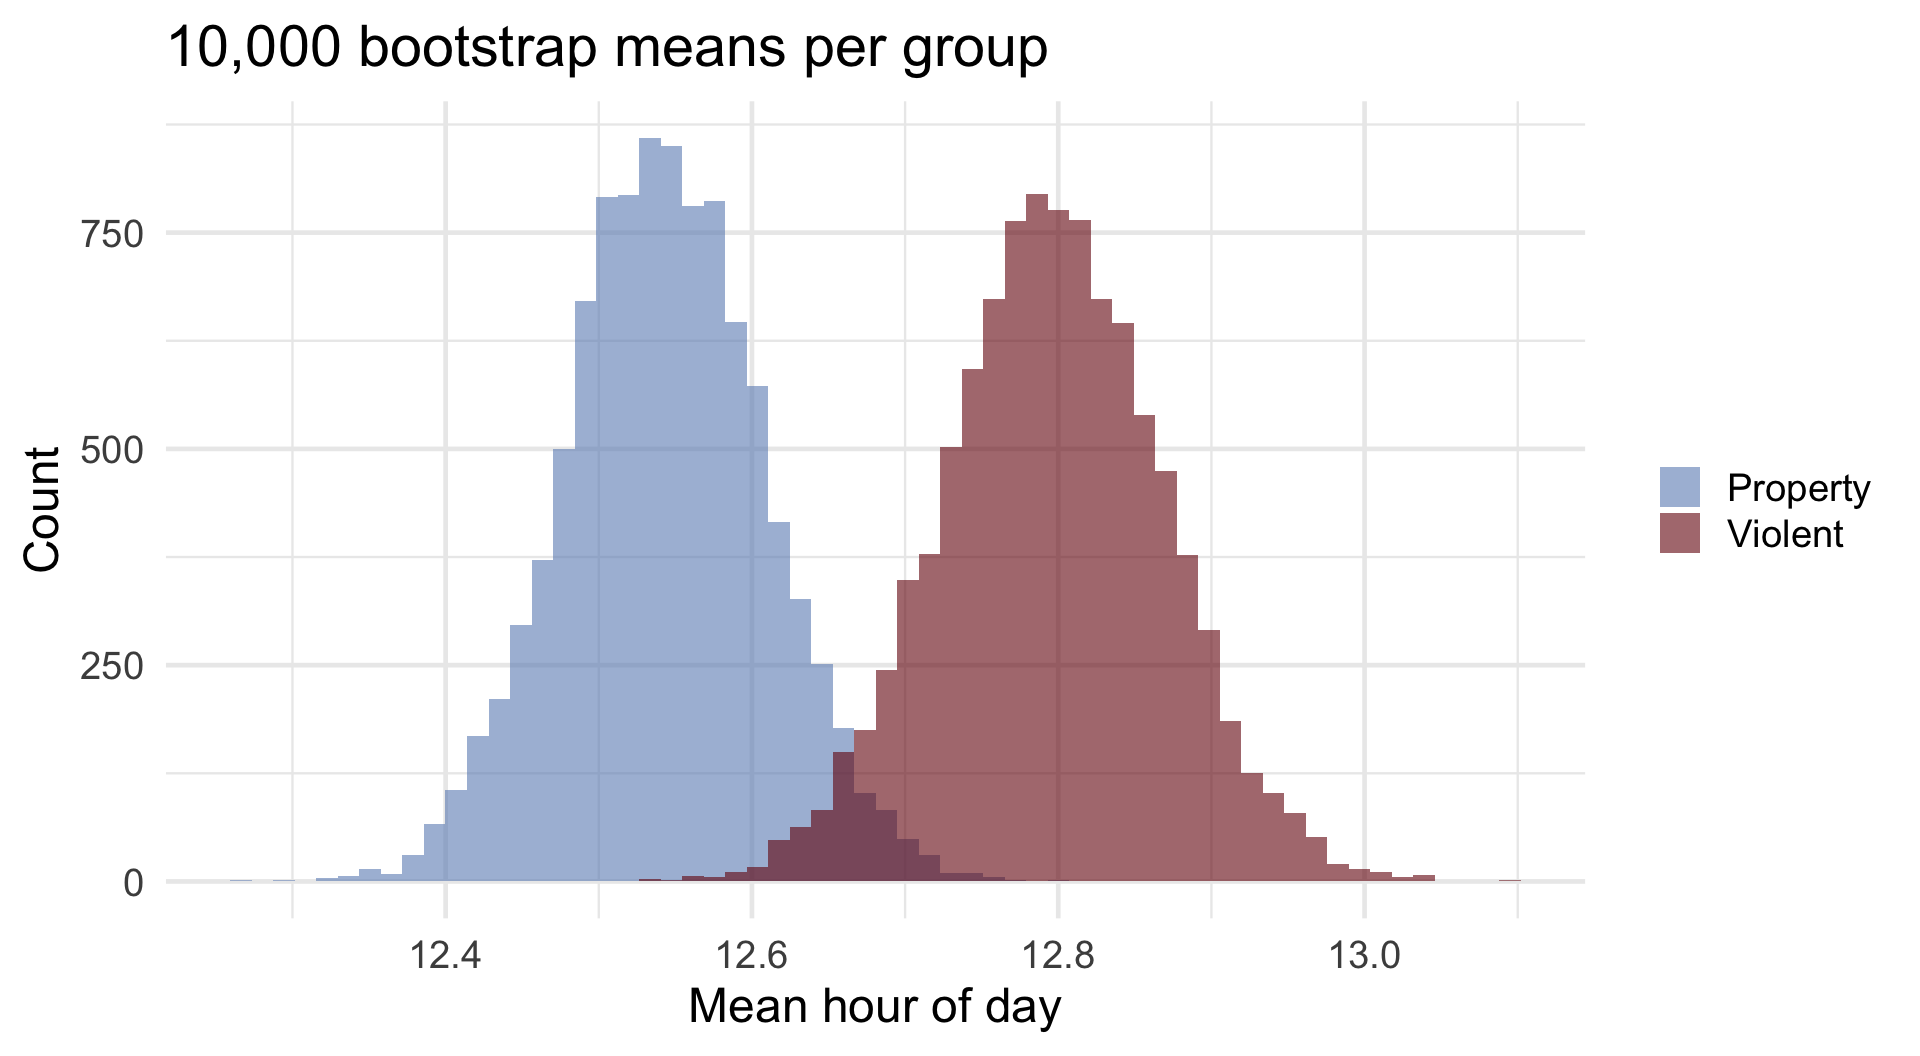
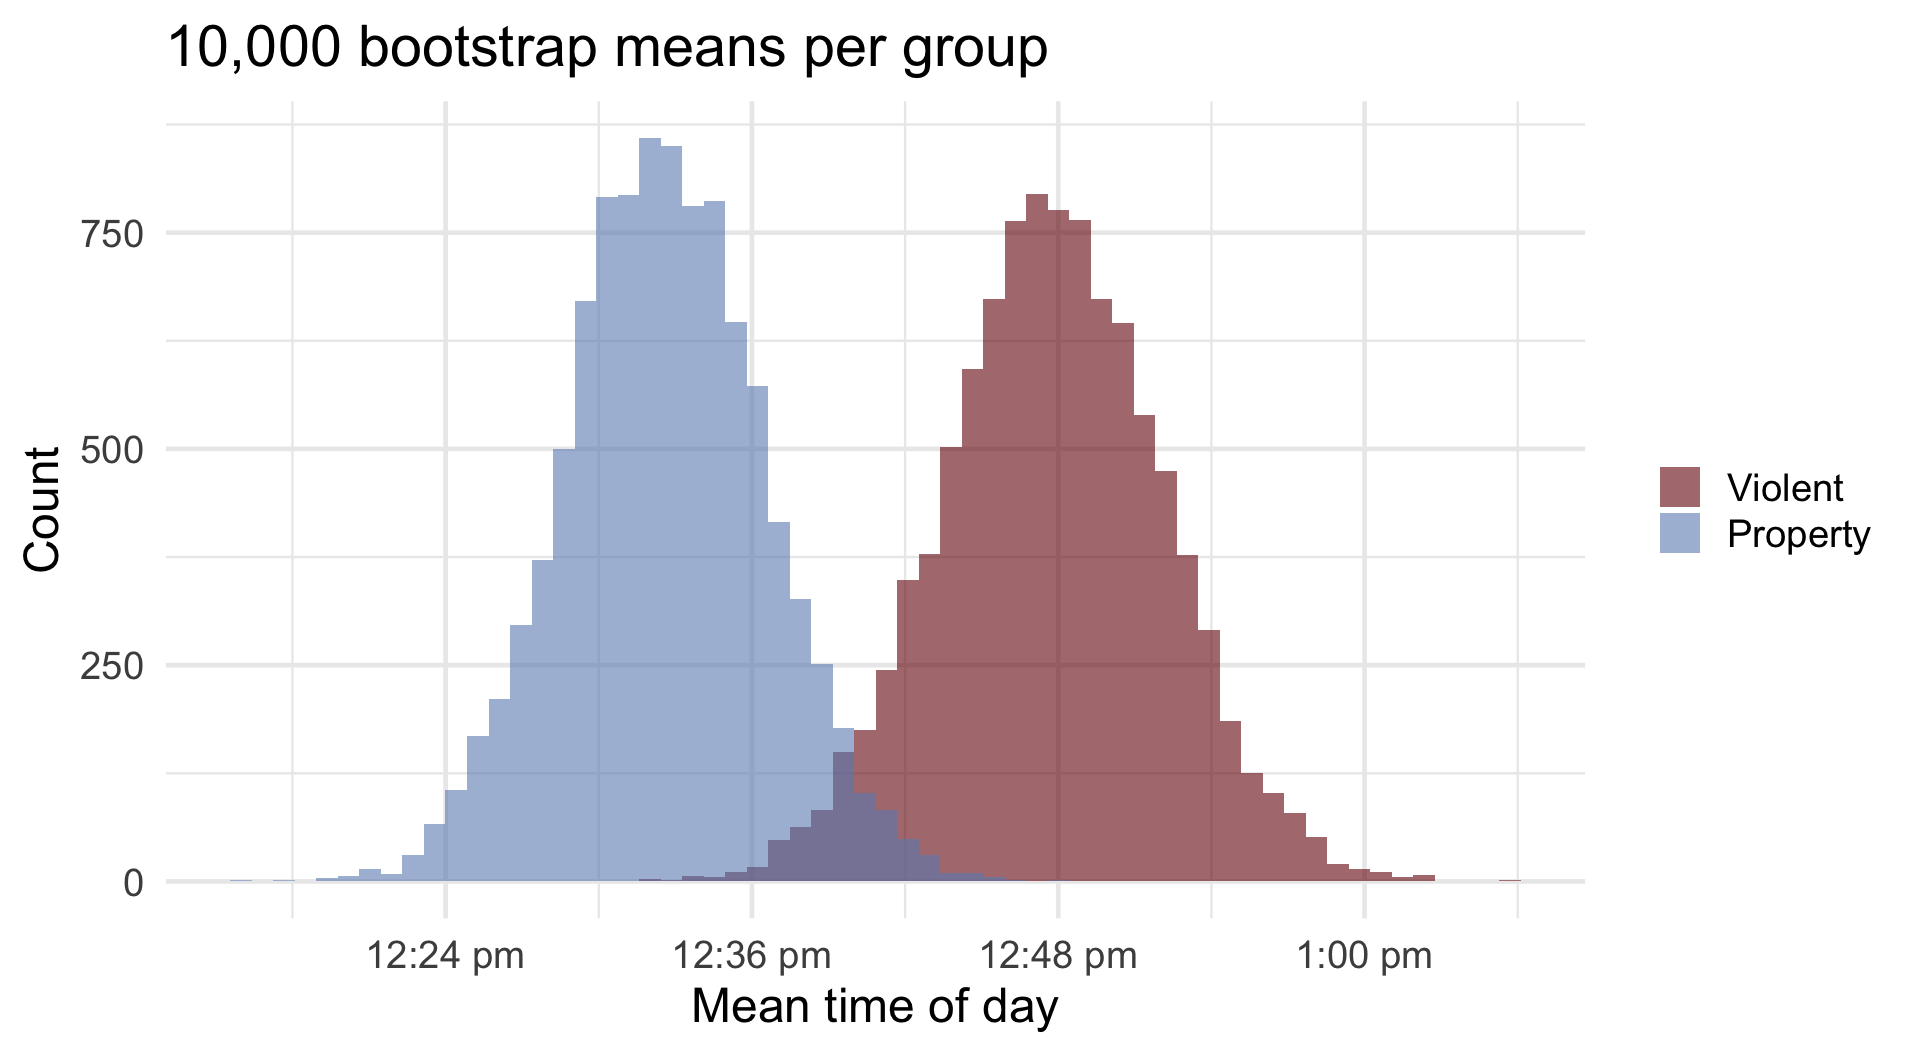
Align Session 6 with Session 5: one direction, clock times, no alphabetical flip
Deck: vp carries factor(levels = c("Violent", "Property")) so t.test() reads
Violent minus Property (t = 2.61) like the bootstrap and ttestBF(); "Two
Threads, One Course" became "How Today Works" (the Ch. 19 reading it cited
is no longer assigned); means as clock times, every difference in minutes
with inline r for the intervals; bootstrap plot Violent-first in garnet;
closing slide no longer credits R4DS join traps. Demo mirrors it.

hw-06 hands students the Domestic-first factor line, reads the interval in
minutes with a direction check against the group means, and subsets with
== "Domestic"; key updated (CI -43 to -18 minutes, grading note reworded).
practice-06 Problem 3 factors STREET first instead of teaching the
alphabetical flip.

Repo renamed crju705-site.nosync to leave iCloud Drive sync; notes updated.

diff --git a/PROJECT_NOTES.md b/PROJECT_NOTES.md
@@ -17,7 +17,7 @@ Textbook stays **Stanton, *Reasoning with Data*** (the only intro text doing fre
 |---|---|
 | **Live site** | <https://smourtgos.github.io/crju705/> |
 | **GitHub repo** | <https://github.com/smourtgos/crju705> (public) |
-| **Working source** | `crju705-site/` (this folder) |
+| **Working source** | `crju705-site.nosync/` (this folder) |
 | **2025 archive (untouched source material)** | `../CRJU 705/` |
 | **Colleague's course (lab template + datasets borrowed)** | `../CRCJ 8950 Spring 2026/` |
 
@@ -26,7 +26,7 @@ Source directories, in student-facing terms: `weeks/` (hub pages — objectives,
 ## How to work on it
 
 ```bash
-# from crju705-site/
+# from crju705-site.nosync/
 quarto preview            # live local preview while editing
 quarto render             # build the whole site to _site/
 # then publish:
@@ -190,6 +190,20 @@ Built by `R/build-anchor-dataset.R` (reproducible; raw downloads go in gitignore
 - **`data/chicago-areas.csv`** — all 2025 incidents aggregated to the 77 community areas, joined with CMAP/ACS socioeconomic covariates (poverty, unemployment, income, education, race, rent…). Has `high_violence` (binary) for the logistic-regression week.
 
 Lab datasets (from colleague, CSV-cleaned, in `data/`): `prisoners`, `neighborhoods`, `cities-wide`, `reentry-wide`, `crash-ak` (+ `.xlsx` twin), `officers`, `population-data`.
+
+## STATUS: Session 6 alignment + `.nosync` rename (September 14, 2026, later the same night) COMPLETE ✅ — shipped live
+
+Two follow-ups Scott asked for after the Session 5 pass. (1) **The repo is now
+`crju705-site.nosync`**, which takes it out of iCloud Drive sync; see the
+publishing gotcha and the closed TODO. (2) **Session 6 matches Session 5**: `vp`
+carries the factor line, the deck reads Violent minus Property everywhere (t =
+2.61), times are clock times and minutes, "Two Threads, One Course" became "How
+Today Works," and the closing slide no longer credits an R4DS reading students did
+not do. The demo mirrors it; hw-06 hands students the Domestic-first factor line
+and its key grades a direction *check* instead of a FALSE − TRUE trap; practice-06
+stops teaching the alphabetical flip. Audit v3 clean (48 slides). Itemized in
+`_private/notes/CHANGES-week-06.md`. Lab 6 and the week-06 hub's joins lines are
+deliberately untouched.
 
 ## STATUS: Session 5 pass (September 14, 2026) COMPLETE ✅ — shipped live
 
@@ -391,8 +405,8 @@ Every substantive change has a bullet in `_private/notes/CHANGES-week-NN.md` (ne
 - [x] **Slide-overflow audit — RUN Aug 25, 2026; week-8 overflows FIXED same day** (browser console reached by serving `_site` with `python3 -m http.server`; the server binds fine now). Weeks 1 and 12 clean; week 2 clean after the dispersion reorder. Week 8's two overflows from the August ANOVA-demotion edits — slide 2 "This Week" (169px over the 700px canvas) and slide 36 "This Workflow Is the Point" (45px over) — trimmed without touching the demotion framing: `{.smaller}` on the opener (no text changed), one-line intro trim on the workflow slide (details in CHANGES-week-08 items 27–28). Re-audit clean: 0 of 47 slides overflow.
 - [ ] **Decide about `options(scipen = 999)` in `R/setup.R`.** It prints p-values as `p-value < 0.00000000000000022` and `0.0000000000105` instead of `2.2e-16` / `1.05e-11`. On the Session 1 slide that introduces p-values for the first time that is arguably *harder* to read, not easier. Left alone because the setting is global across every deck, lab, and homework page — changing it is a one-liner but affects everything.
 - [ ] **(Sep 7, 2026) Decide what Session 7 is now.** It is billed as the session where "the two threads meet," and after the lecture/lab split there is only one thread. Its workshop asks students to import and clean a messy file with no import or tidying instruction anywhere behind it. Tonight only corrected the false claims in the pipeline table and Lab 7's missingness block (see CHANGES-week-07). The redesign is a real decision and S7 is Sep 29, but **decide before Session 6**, because Lab 6 (joins, R4DS Ch. 19) is the next lab that hits the same tension. **(Sep 14, 2026)** Sharper now: Ch. 19 is no longer assigned anywhere (S5→S6 is Ch. 16), so `labs/lab-06-joins.qmd:6` ("assumes you've read Ch. 19") and `weeks/week-06.qmd` lines 3, 19, 30, 40 describe a lab with no reading behind it. Scott chose to leave Lab 6 alone on Sep 14 and decide with this item.
-- [ ] **(Sep 14, 2026) Move the repo out of iCloud Drive sync, or exclude it.** See the publishing gotcha at the top: the daemon plants `name 2.ext` duplicates in `_freeze/`, `_site/`, `.quarto/`, and `_private/` and resurrects render intermediates next to the sources. Renaming the folder `crju705-site.nosync` (iCloud skips `.nosync` folders) or moving it under a non-synced path such as `~/Code/` stops it; if it moves, update the paths in `../PROJECT_NOTES.md` and the grading workflow that reads `crju705-site/_private/keys/`.
-- [ ] **(Sep 14, 2026) The Session 6 deck contradicts the Session 5 deck; fix before Sep 22.** `slides/week-06-hypothesis-testing.qmd` builds `vp` without the factor line (line 29), still says "R orders groups alphabetically, so this tests Property − Violent" (222), reports decimal hours (127, 141), and its "Two Threads" slide (45–57) claims the Ch. 19 reading feeds Lab 6. Session 5 now teaches the opposite of all four.
+- [x] **(Sep 14, 2026) Repo moved out of iCloud Drive sync — DONE the same night.** The folder was renamed `crju705-site.nosync` (iCloud skips `.nosync` names); a full copy was taken first, git and `_private/` were verified intact afterwards, and the stale worktree registrations (`bold-volhard-1820af`, two `quarto-publish-worktree-*`) were pruned. No `name 2.ext` duplicates appeared in the renders that followed. Both notes files now use the new path. **Keep the purge-and-`git status` habit for one more pass** to confirm the daemon is really gone.
+- [x] **(Sep 14, 2026) Session 6 deck brought into line with Session 5 — DONE the same night** (Scott's ask). Factor line, "How Today Works," clock times and minutes, no "alphabetically"; demo, hw-06 + key, and practice-06 fixed for the same contradictions. Detail in `_private/notes/CHANGES-week-06.md` (September 14 section). Lab 6 and the week-06 hub's joins lines are untouched, per the Lab 6 decision above.
 - [ ] **(Sep 14, 2026) Propagate the lab-deliverable wording.** Lab 5's "How labs work" and Exit Ticket sections now say to submit the whole Your Turn script with the reflection comments at the bottom. Labs 2–4 and 6–8 still say to submit an Exit Ticket.
 - [ ] **(Sep 14, 2026) `practice/practice-05.qmd`** still models `$conf.int`, `sum(x == ...)`, `nrow()`, and the alphabetical-direction language in all five solutions, and its Problem 4 reuses the deck's variable and machinery (CONVENTIONS line 85). Ungraded and public; align when convenient. `midterm.qmd:12` "pivot/join weeks" wording is also slightly off now.
 - [ ] **Re-record the S12 3D walkthrough video** — the live widget was fixed but `media/week-12/3d-logistic.mp4` still shows the pre-fix transposed surface (CHANGES-week-12).
